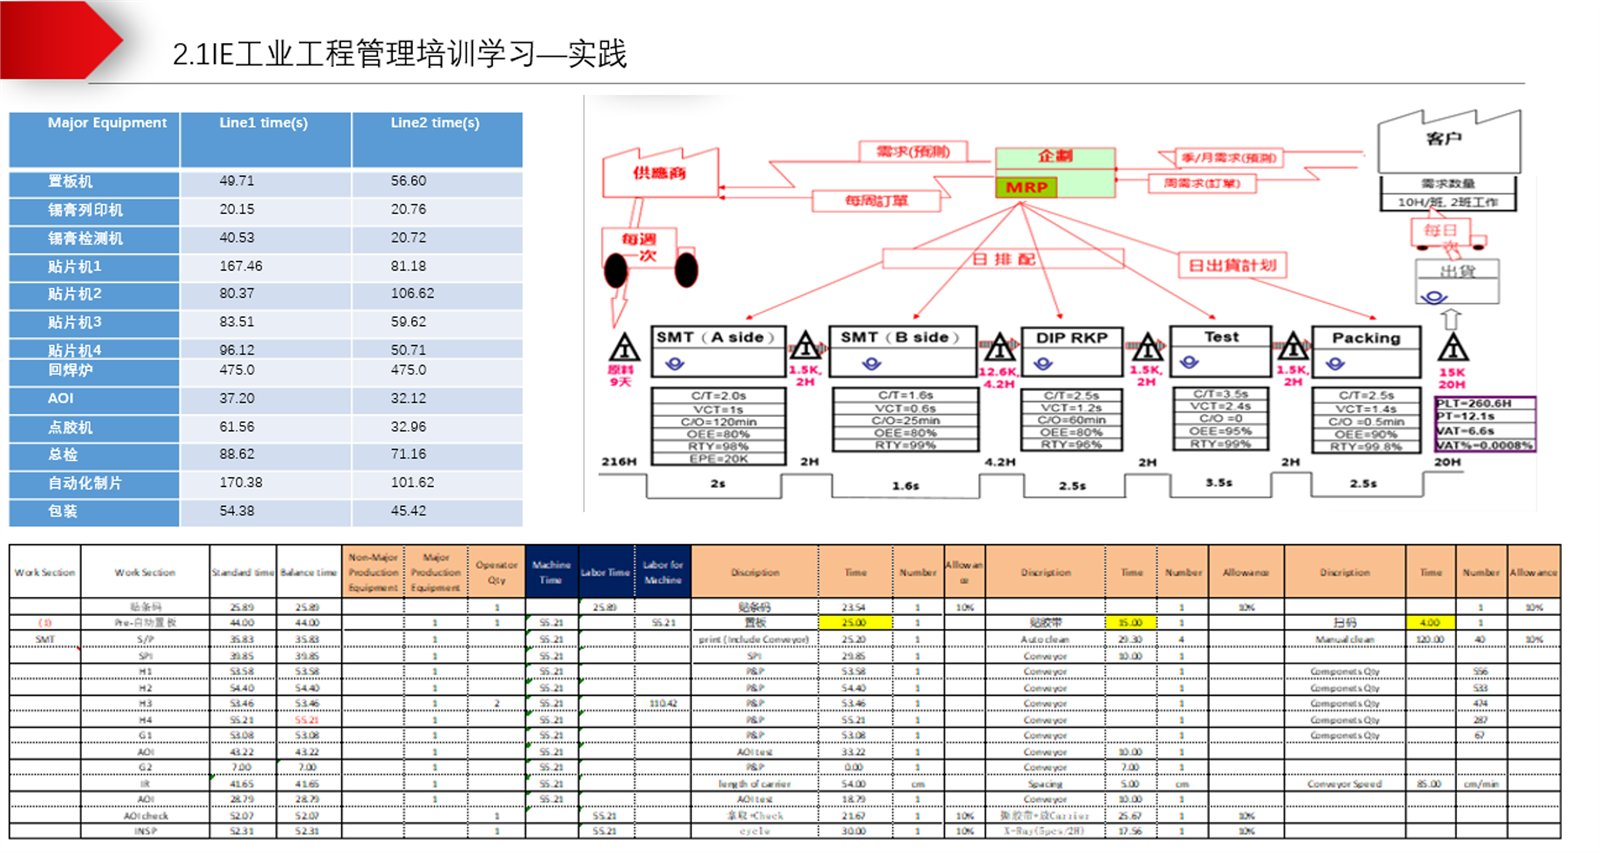
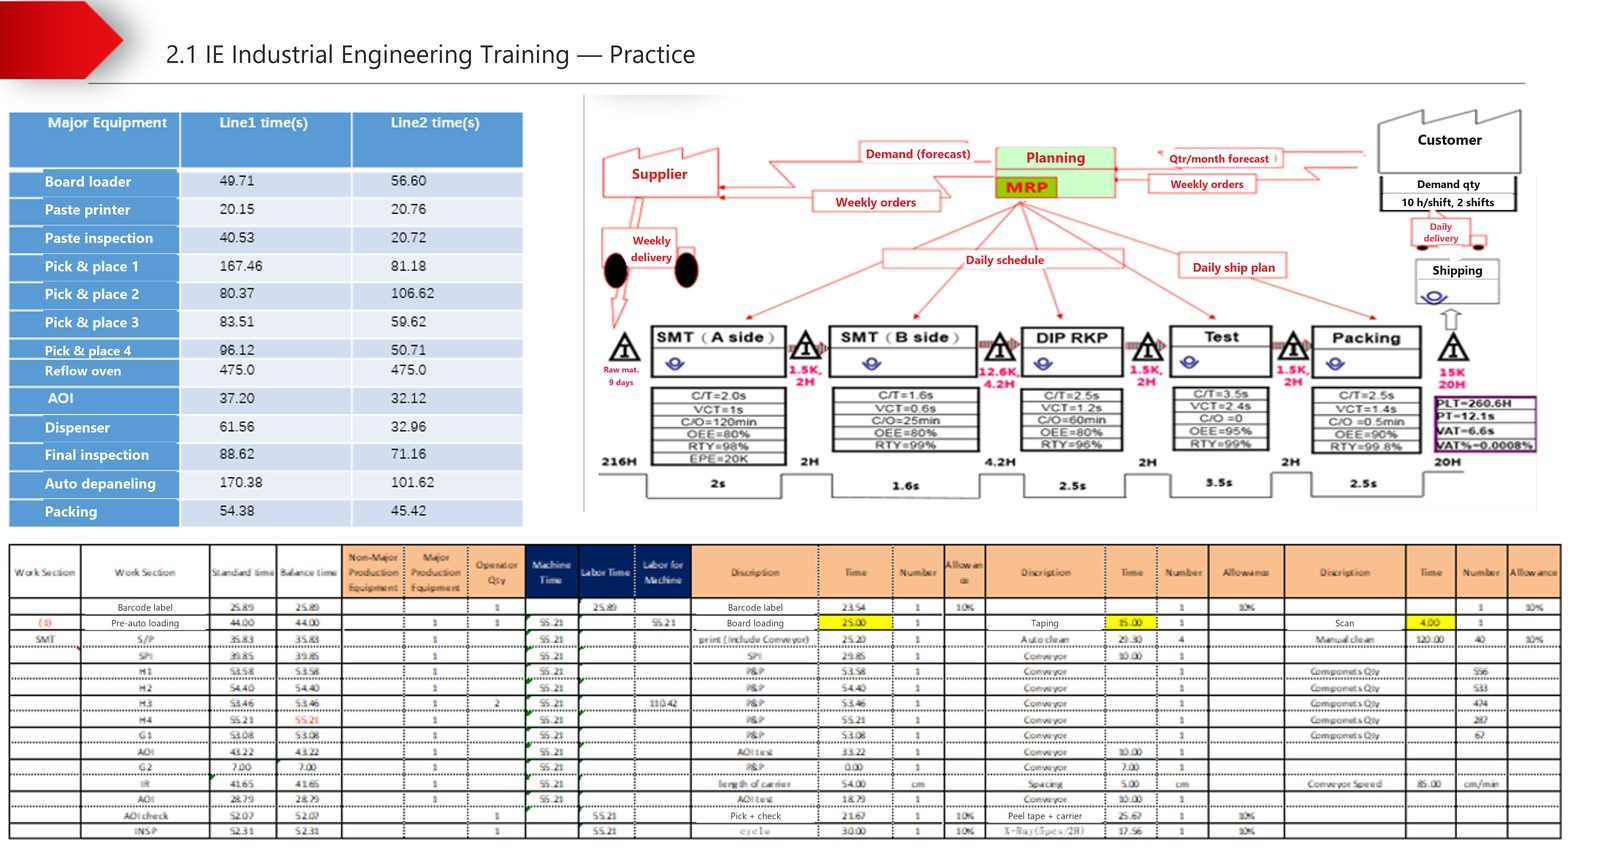
Translate the USI internship images to English
Replace the Chinese labels baked into the value-stream/standard-time
chart and the SMT automated-line diagram, and bump their cache version.

diff --git a/index.html b/index.html
@@ -758,7 +758,7 @@
             <div class="experience-media double">
               <figure>
                 <img
-                  src="assets/Plan-preview.jpg"
+                  src="assets/Plan-preview.jpg?v=en1"
                   alt="Summer Management Trainee Internship program plan at USI"
                   data-i18n-attr="alt:experience.usiAltPlan"
                   loading="lazy"
@@ -767,7 +767,7 @@
                 <figcaption data-i18n="experience.usiCap1">價值流與標準工時表整理</figcaption>
               </figure>
               <figure>
-                <img src="assets/SMT.png" alt="SMT process workflow" data-i18n-attr="alt:experience.usiAltSmt" loading="lazy" decoding="async" />
+                <img src="assets/SMT.png?v=en1" alt="SMT process workflow" data-i18n-attr="alt:experience.usiAltSmt" loading="lazy" decoding="async" />
                 <figcaption data-i18n="experience.usiCap2">SMT 製程工藝與站點流程</figcaption>
               </figure>
             </div>
